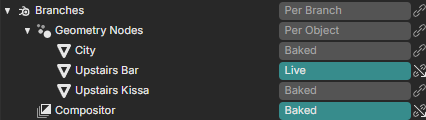
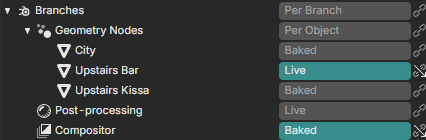
File > Export > JavaScript's Branches also turns curves, volumes and post-processing off and sets each modifier stack Live or Baked, whichever menu entry exports
Claude-Session: https://claude.ai/code/session_01PQ7TRPEHBjaE2nt66NvYBK

Changed region(s): [[0.6408, 0.025, 1.0, 1.0], [0.061, 0.175, 0.3662, 1.0], [0.0, 0.025, 0.2136, 0.125]]

diff --git a/src/io_scene_babylon/js-export.js b/src/io_scene_babylon/js-export.js
@@ -17,7 +17,7 @@ import { createSceneBin } from './scene-bin.js';
 import { imageFiles } from './image-files.js';
 import { exportCompositor } from './compositor-export.js';
 import { exportIR, idKey } from './ir-export.js';
-import { channels, readsOtherIDs } from './modifiers-export.js';
+import { channels, liveStack } from './modifiers-export.js';
 import { AREA_LIGHTS_LTC, AREA_SPECULAR, BABYLON_ASSETS, CHUNKS, COMPILER_FOLDER, gplFolders, NODE_KERNELS, UNITS_FILE } from './runtime-files.js';
 import { AREA_SPECULAR_UNIT, replaces, stripEntities, stripPieces, unitManifest } from './unit-manifest.js';
 import { CURVES_GLSL_FILE, curvesGlslFile } from './curves-export.js';
@@ -143,7 +143,6 @@ function nodeCode(entry, mesh, geometries, live, bin) {
 }
 
 // Remesh's Voxel mode needs OpenVDB, which the kernels module is built without: such a stack stays applied.
-const needsOpenVDB = (modifier) => modifier.kind === 'REMESH' && modifier.values.mode === 'VOXEL';
 
 // The thin instances of one instancer (main-view.js drawInstances) become its child's, in its space: they follow it when
 // it moves, as Blender's instances do. Instances of several instancers stay in world space.
@@ -213,6 +212,8 @@ function sharedCode(materials) {
 }
 
 const PIPELINE_EFFECTS = ['bloomEnabled', 'depthOfFieldEnabled', 'fxaaEnabled', 'sharpenEnabled', 'chromaticAberrationEnabled', 'grainEnabled', 'glowLayerEnabled'];
+// Bylonder's own pipeline of a rendered view with none of its effects on: it only displays (render-babylon.js).
+export const displayOnly = (pipeline) => pipeline._name?.startsWith('__display:') && !PIPELINE_EFFECTS.some((e) => pipeline[e]);
 // A rendered view's display transform (runtime/view-transform.js) as Main's view settings give it: its lattice of
 // Blender's display processor goes to scene.bin, but for Standard without a look, which is sRGB's encoding. Standard
 // too is a post process, as the app's: the world's clear color, which no material draws, is scene linear.
@@ -241,20 +242,21 @@ function greasePencilClock(world, ir, groups) {
     targetedAnimations: [{ animation: animation.serialize(), targetId: animated.outputs.geometry.draw }] });
 }
 
-// The package's files but the runtime's: scene.js, scene.d.ts, scene.ir.json, scene.bin and images/. With `live`, objects whose
-// modifiers are all Blender's keep them live (modifiers-export.js), run by modifiers.wasm in bylonder-modifiers/. With
-// `bakeAnimation`, what Babylon cannot play as its F-Curve is sampled per frame; `target`, the GPU engine its page makes
+// The package's files but the runtime's: scene.js, scene.d.ts, scene.ir.json, scene.bin and images/. With `live` (the
+// Modifiers branch's default state), objects whose modifiers are all Blender's keep them live (modifiers-export.js), run
+// by modifiers.wasm in bylonder-modifiers/. With `bakeAnimation`, what Babylon cannot play as its F-Curve is sampled per frame; `target`, the GPU engine its page makes
 // (export-options.js TARGETS); `runtime`, `runtimes`, the runtimes its features export with (runtimes.js chosenRuntime);
 // `replace`, the type keys of units the page registers itself, which the package ships none of (unit-manifest.js); `bundle`,
 // whether the package is then bundled (bundle.js); `branchState` and `branches`, the states of the scene's branches
 // (export-options.js chosenState).
 export async function exportModule(world, { live: keepLive = false, parity = false, hostCompression = false, bakeAnimation = false, target = 'BOTH', runtime = null, runtimes = {}, replace = [], bundle = false, controlPanel = true, devTools = 'CDN', navigation = 'FIXED', navigationModes = {}, branchState = null, branches = {} } = {}) {
-  const live = new Map(keepLive ? world.objects.map((node) => [node, world.modifiers.live(node)]).filter(([node, stack]) => stack && !stack.modifiers.some(needsOpenVDB) && !readsOtherIDs(world, node)) : []);
+  const states = { branchState, branches }, stackState = (node) => chosenState(states, 'modifiers', node.name) ?? (keepLive ? 'LIVE' : 'BAKED');
+  const live = new Map(world.objects.filter((node) => stackState(node) === 'LIVE').map((node) => [node, liveStack(world, node)]).filter(([, stack]) => stack));
   await world.modifiers.settled();
   // The mapped meshes' geometry is read below: their mapping holds until the module is written.
   const mapped = exportRuntimes(world, { bake: bakeAnimation, runtime, runtimes });
   try {
-    return await moduleSource(world, live, mapped, { parity, hostCompression, bakeAnimation, target, replace, bundle, controlPanel, devTools, navigation, navigationModes, states: { branchState, branches } });
+    return await moduleSource(world, live, mapped, { parity, hostCompression, bakeAnimation, target, replace, bundle, controlPanel, devTools, navigation, navigationModes, states });
   } finally {
     mapped.restore();
   }
@@ -263,10 +265,11 @@ export async function exportModule(world, { live: keepLive = false, parity = fal
 async function moduleSource(world, live, mapped, { parity, hostCompression, bakeAnimation, target, replace, bundle, controlPanel, devTools, navigation, navigationModes, states }) {
   const graphs = [], graphOf = materialGraphs(world, graphs);
   const data = await serializeScene(world, { geometry: false, live, mapped, parity, graphOf, bake: bakeAnimation });
+  if (chosenState(states, 'postProcessing') === 'OFF') Object.assign(data, { renderingPipelines: [], postProcesses: [] });
   const { scene } = world;
   const worldEntry = await worldMaterial(scene, parity, graphOf);
   if (worldEntry) data.materials.push(worldEntry);
-  const volumes = await exportVolumes(scene, { parity, graphOf, meshes: new Set(data.meshes.map((m) => m.id)), lights: new Set(data.lights.map((l) => l.id)) });
+  const volumes = chosenState(states, 'volumes') === 'OFF' ? null : await exportVolumes(scene, { parity, graphOf, meshes: new Set(data.meshes.map((m) => m.id)), lights: new Set(data.lights.map((l) => l.id)) });
   if (volumes) data.materials.push(...volumes.materials);
   const bin = createSceneBin({ gzip: !hostCompression }), images = imageFiles(data);
   const geometries = new Map(), geometryLines = [];
@@ -285,7 +288,7 @@ async function moduleSource(world, live, mapped, { parity, hostCompression, bake
   // Bylonder's own pipeline of a rendered view (render-babylon.js SceneLinearPipeline) turns the scene's image processing
   // off, so materials would encode to display themselves: with the view transform, which displays instead, it stays out
   // unless one of its effects is on.
-  if (display) data.renderingPipelines = data.renderingPipelines.filter((p) => !(p._name?.startsWith('__display:') && !PIPELINE_EFFECTS.some((e) => p[e])));
+  if (display) data.renderingPipelines = data.renderingPipelines.filter((p) => !displayOnly(p));
   // Baked, the compositor runs with its settings as exported: none of them a control.
   const controls = withUI([...exportControls(world, data), ...(compositorState === 'LIVE' ? composited?.knobs ?? [] : [])]);
   const ir = exportIR(world, { controls, live, bin, animationGroups: data.animationGroups, curves: data.liveCurves, constraints: data.liveConstraints, states });

diff --git a/src/io_scene_babylon/branches.js b/src/io_scene_babylon/branches.js
@@ -1,11 +1,15 @@
 // The branches of a scene File > Export > JavaScript offers (export-options.js BRANCHES): each self-contained part of
 // it a package can run in its page, freeze to its evaluated result, or leave out, with what each defaults to.
 import { idStruct } from '../python/bpy_rna.js';
-import { geometryNodesDefault, geometryNodesStack } from './modifiers-export.js';
+import { geometryNodesDefault, geometryNodesStack, liveStack } from './modifiers-export.js';
 import { treeReadsFrame } from './ir-export.js';
+import { cameraEffects } from './babylon-export.js';
+import { displayOnly } from './js-export.js';
+import { hasVolumes } from './volumes-export.js';
 
 // [id, label, icon] of each branch, in the order the export's tree lists them.
-export const BRANCH_ROWS = [['geometryNodes', 'Geometry Nodes', 'GEOMETRY_NODES'], ['compositor', 'Compositor', 'NODE_COMPOSITING']];
+export const BRANCH_ROWS = [['modifiers', 'Modifiers', 'MODIFIER'], ['geometryNodes', 'Geometry Nodes', 'GEOMETRY_NODES'], ['curves', 'Curves', 'CURVES_DATA'],
+  ['volumes', 'Volumes', 'VOLUME_DATA'], ['postProcessing', 'Post-processing', 'SHADING_RENDERED'], ['compositor', 'Compositor', 'NODE_COMPOSITING']];
 
 // The scene's Geometry Nodes stacks, by object: { name, state } with the state each exports with by default.
 function geometryNodesInstances(world) {
@@ -19,13 +23,30 @@ function composites(world) {
   return !!(world.scene.cameras.length && sync?.compositingTree() && idStruct(sync.blender.scene).render.use_compositing);
 }
 
+// Whether a render draws curves the page would draw (curves-export.js).
+const drawsCurves = (world) => world.mainSync.blender.curves().some((r) => r.render && r.indirection.length);
+
+// Whether the scene's camera has effects the package carries: rendering pipelines or post-processes (babylon-export.js).
+function postProcessed(world) {
+  const camera = world.scene.activeCamera;
+  if (!camera) return false;
+  const { renderingPipelines, postProcesses } = cameraEffects(world, world.scene, camera);
+  return postProcesses.length > 0 || renderingPipelines.some((p) => !displayOnly(p));
+}
+
 // The branches the scene has, by id: { state, instances } with their default states; a branch without instances has
-// one state for the scene.
-export function sceneBranches(world) {
+// one state for the scene. `live`: whether modifier stacks are Live by default (File > Export > JavaScript, Live
+// Modifiers).
+export function sceneBranches(world, { live = false } = {}) {
   if (!world.mainSync) return {};
+  const stacks = world.objects.filter((node) => liveStack(world, node)).map((node) => ({ name: node.name, state: live ? 'LIVE' : 'BAKED' }));
   const gn = geometryNodesInstances(world);
   return {
+    ...(stacks.length && { modifiers: { instances: stacks } }),
     ...(gn.length && { geometryNodes: { instances: gn } }),
+    ...(drawsCurves(world) && { curves: { state: 'LIVE' } }),
+    ...(hasVolumes(world.scene) && { volumes: { state: 'LIVE' } }),
+    ...(postProcessed(world) && { postProcessing: { state: 'LIVE' } }),
     ...(composites(world) && { compositor: { state: 'LIVE' } }),
   };
 }

diff --git a/src/io_scene_babylon/volumes-export.js b/src/io_scene_babylon/volumes-export.js
@@ -16,6 +16,16 @@ const LIGHT_FIELDS = ['type', 'energy', 'exposure', 'color', 'volume_factor', 's
   'use_custom_distance', 'cutoff_distance', 'diffuse_factor', 'specular_factor', 'use_shadow'];
 const plain = (value) => (value && typeof value === 'object' ? [...value] : value);
 
+// The scene's volume domains seen by `camera`, of the `meshes` exported (ids; all when unset): [mesh, material], the
+// world's as [null, world]. The world's box is shown only in rendered views: the world's volume is its material's.
+function volumeDomains(scene, camera, meshes) {
+  const world = worldNodes.get(scene);
+  return scene.meshes.filter((mesh) => isVolumeDomain(mesh, camera) && !mesh.material.blenderWorld && (!meshes || meshes.has(mesh.id)))
+    .map((mesh) => [mesh, mesh.material]).concat(world?.blenderVolume ? [[null, world]] : []);
+}
+/** Whether a package of the scene has volumes to draw. */
+export const hasVolumes = (scene) => !!scene.activeCamera && volumes.enabled(scene) && volumeDomains(scene, scene.activeCamera).length > 0;
+
 // The volumes of the scene as its camera draws them: { config, materials } (the volume materials' serializations, and
 // `dispose` once the export no longer reads them), or null when it draws none. `meshes`: the exported meshes' ids;
 // `lights`: the exported lights' ids; `graphOf(material, volume)`: the IR graph of a material's tree (js-export.js
@@ -23,9 +33,7 @@ const plain = (value) => (value && typeof value === 'object' ? [...value] : valu
 export async function exportVolumes(scene, { parity, graphOf, meshes, lights }) {
   const camera = scene.activeCamera;
   if (!camera || !volumes.enabled(scene)) return null;
-  // The world's box is shown only in rendered views: the world's volume is its material's.
-  const world = worldNodes.get(scene), domains = scene.meshes.filter((mesh) => isVolumeDomain(mesh, camera) && !mesh.material.blenderWorld && meshes.has(mesh.id))
-    .map((mesh) => [mesh, mesh.material]).concat(world?.blenderVolume ? [[null, world]] : []);
+  const domains = volumeDomains(scene, camera, meshes);
   if (!domains.length) return null;
   const made = [], config = { settings: volumeSettings(scene), domains: [], lights: {} };
   for (const [domain, source] of domains) {

diff --git a/src/io_scene_babylon/export-dialog.js b/src/io_scene_babylon/export-dialog.js
@@ -78,10 +78,13 @@ function unitsTree(values) {
 }
 
 // Why an instance defaults to its state, by branch.
-const DEFAULT_REASONS = { geometryNodes: { LIVE: 'an input or the frame drives it in the page', BAKED: 'nothing in the page drives it, or it is Smooth by Angle' } };
+const DEFAULT_REASONS = {
+  modifiers: { LIVE: 'Live Modifiers runs every stack it can in the page', BAKED: 'JavaScript (.zip) bakes modifier stacks; Live Modifiers runs them' },
+  geometryNodes: { LIVE: 'an input or the frame drives it in the page', BAKED: 'nothing in the page drives it, or it is Smooth by Angle' },
+};
 const stateLabel = (state) => BRANCH_STATES.find(([id]) => id === state)[1];
 // The Branches tree: each branch of the scene (`scene`, branches.js sceneBranches) Live, Baked or Off as it offers, and
-// under a branch with instances (a Geometry Nodes stack) each instance; unset everywhere, each takes its default. None:
+// under a branch with instances (an object's stack) each instance; unset everywhere, each takes its default. None:
 // no row.
 function branchesTree(values, scene) {
   values.branches = {};
@@ -146,7 +149,7 @@ export async function exportDialog(world, format, title) {
   const values = reactive({ eeveeParity: false, hostCompression: false, bakeAnimation: false, target: null, bundle: null, minify: null, controlPanel: null, devTools: null, navigation: null });
   const fields = [{ name: 'eeveeParity', label: 'EEVEE Parity', note: PARITY_NOTE },
     ...(js ? [{ name: 'hostCompression', label: 'Host Compresses Geometry', note: HOST_NOTE }, { name: 'bakeAnimation', label: 'Bake Animation', note: BAKE_NOTE }] : [])];
-  const branches = js ? sceneBranches(world) : {};
+  const branches = js ? sceneBranches(world, { live: format === 'js-live' }) : {};
   const tree = settingsTree(values, js, branches);
   const note = branches.geometryNodes ? await geometryNodesNote() : undefined;
   const host = document.body.appendChild(document.createElement('div'));

diff --git a/tests/export-live-bevel-wasm.test.js b/tests/export-live-bevel-wasm.test.js
@@ -1,11 +1,13 @@
 // Live Modifiers: a Bevel's width set in the page bevels as the app does (Newton's Cradle's base). Its `width_pct` is
-// the same DNA field in percent, not a control of its own that writes the old width back.
+// the same DNA field in percent, not a control of its own that writes the old width back. File > Export's Branches sets
+// a stack Live or Baked whichever menu entry exported it.
 import assert from 'node:assert/strict';
 import { NullEngine } from '@babylonjs/core';
 import { openExample } from './open-example.js';
 import { writePackage } from './export-package.js';
 import { exportModule } from '../src/io_scene_babylon/js-export.js';
 import { blendData } from '../src/python/bpy_rna.js';
+import { sceneBranches } from '../src/io_scene_babylon/branches.js';
 
 const { world, sync } = openExample('newtons-cradle');
 sync.view();
@@ -25,5 +27,9 @@ const off = Math.max(...page.map((v, i) => Math.abs(v - app[i])));
 assert.ok(off < 1e-4, `positions off by ${off}`);
 blend.dispose();
 written.remove();
+const runs = (files) => Object.values(JSON.parse(files['scene.ir.json']).entities).some((e) => e.id === 'OB:Base' && e.implementation === 'modifiers');
+assert.deepEqual(sceneBranches(world, { live: true }).modifiers.instances.find((i) => i.name === 'Base'), { name: 'Base', state: 'LIVE' }, 'Branches lists the stack, Live');
+assert.ok(!runs(await exportModule(world, { live: true, branches: { modifiers: { state: 'BAKED', instances: {} } } })), 'Baked, the stack is applied');
+assert.ok(runs(await exportModule(world, { branches: { modifiers: { state: null, instances: { Base: 'LIVE' } } } })), 'Live, it runs without Live Modifiers');
 console.log("Live modifiers: a Bevel's width set in the page bevels as in the app");
 process.exit(0);

diff --git a/tests/export-curves-wasm.test.js b/tests/export-curves-wasm.test.js
@@ -1,11 +1,13 @@
 // Curves in the JavaScript export: each set of curves a render draws (here a Curves object's, Hair Dynamics' Tentacles)
 // is an IR entity holding Main's curves draw in scene.bin, and the page draws it as the app does: the same buffers and
-// Hair shape on a mesh of Blender's batch vertices, in the exported material with the app's curves blocks.
+// Hair shape on a mesh of Blender's batch vertices, in the exported material with the app's curves blocks. Curves Off in
+// File > Export's Branches leaves them out.
 import assert from 'node:assert/strict';
 import { NullEngine } from '@babylonjs/core';
 import { exportModule } from '../src/io_scene_babylon/js-export.js';
 import { openExample } from './open-example.js';
 import { writePackage } from './export-package.js';
+import { sceneBranches } from '../src/io_scene_babylon/branches.js';
 
 const { world, sync } = openExample('hair-dynamics');
 sync.view();
@@ -34,5 +36,8 @@ assert.equal(data.segments, app.indirection.length, "Blender's drawn segments");
 assert.deepEqual(data.pos_rad.getInternalTexture()._bufferView.subarray(0, app.posRad.length), app.posRad, "Main's points");
 blend.dispose();
 written.remove();
+assert.ok(sceneBranches(world).curves, 'Branches lists the curves');
+const off = await exportModule(world, { live: true, branches: { curves: { state: 'OFF', instances: {} } } });
+assert.ok(!Object.values(JSON.parse(off['scene.ir.json']).entities).some((e) => e.type === 'curves:CURVES') && !off['bylonder-curves/glsl.js'], 'Off ships no curves');
 console.log(`Export curves: ${record.length.length} curves of ${app.posRad.length / 4} points drawn with the app's curves blocks`);
 process.exit(0);

diff --git a/src/io_scene_babylon/ir-export.js b/src/io_scene_babylon/ir-export.js
@@ -8,6 +8,7 @@ import { baseMesh, geometryNodesEntities, modifierEntities } from './modifiers-e
 import { ID_OB } from '../blenkernel/main-evaluated.js';
 import { greasePencilEntities } from './grease-pencil-export.js';
 import { curvesEntities } from './curves-export.js';
+import { chosenState } from './export-options.js';
 import { entityOrder, IR_SCHEMA, IR_VERSION, referencesIn } from './runtime/ir.js';
 
 // Blender's two-letter ID codes, by the bpy.data collection of each ID type.
@@ -281,7 +282,7 @@ export function exportIR(world, { controls, live, bin, animationGroups = [], cur
     for (const entity of Object.values(entities)) if (time && entity.type === 'modifier:NODES' && readsTime(graphs, entity.inputs.graph.graph)) entity.inputs.frame = { property: time };
     Object.assign(entities, driverEntities(properties), animationEntities(ids, properties, time, animationGroups, curves, bin),
       greasePencilEntities(world, objects.map(([node]) => node), bin, time),
-      curvesEntities(world, objects.map(([node]) => node), bin), constraintEntities(ids, constraints, time));
+      chosenState(states, 'curves') === 'OFF' ? {} : curvesEntities(world, objects.map(([node]) => node), bin), constraintEntities(ids, constraints, time));
   }
   // What the page computes from is offered to authors.
   for (const entity of Object.values(entities)) if (entity.implementation) for (const [ref] of referencesIn(entity.inputs)) if ('property' in ref) properties[ref.property].suggested = true;

diff --git a/tests/export-volumes-wasm.test.js b/tests/export-volumes-wasm.test.js
@@ -1,12 +1,13 @@
 // EEVEE's volumes in exported pages as in the app: the Volumes example's dust (an object's Volume) and Hair Dynamics'
 // water (the world's Volume Scatter) ship as volume materials built from the IR's graphs, drawn by the app's volume
-// passes in bylonder-volumes/ (GPL, beside its notice).
+// passes in bylonder-volumes/ (GPL, beside its notice). Volumes Off in File > Export's Branches leaves them out.
 import assert from 'node:assert/strict';
 import { execFileSync } from 'node:child_process';
 import { fileURLToPath } from 'node:url';
 import { NullEngine } from '@babylonjs/core';
 import { openExample } from './open-example.js';
 import { writePackage } from './export-package.js';
+import { sceneBranches } from '../src/io_scene_babylon/branches.js';
 import { exportModule } from '../src/io_scene_babylon/js-export.js';
 import { gplFiles } from '../src/io_scene_babylon/runtime-files.js';
 import { current } from '../scripts/modifiers-polyfill.mjs';
@@ -40,5 +41,8 @@ if (!example) {
   blend.scene.render();
   blend.dispose();
   written.remove();
+  assert.ok(sceneBranches(world).volumes, `${example}: Branches lists its volumes`);
+  const off = await exportModule(world, { branches: { volumes: { state: 'OFF', instances: {} } } });
+  assert.ok(!off['scene.js'].includes('const VOLUMES =') && !gplFiles(off).some(([path]) => path.startsWith('bylonder-volumes/')), `${example}: Off ships no volumes`);
 }
 process.exit(0);

diff --git a/tests/export-god-rays-wasm.test.js b/tests/export-god-rays-wasm.test.js
@@ -1,6 +1,7 @@
 // God rays in an exported page stream from their source as in the app (Dusk Coast's sun): Babylon parses them as a
 // plain post process, without their samples or the pass that draws their mesh, whose shader does not compile; the
-// page builds them as their class, with the settings and samples the app's have.
+// page builds them as their class, with the settings and samples the app's have. Post-processing Off in File > Export's
+// Branches leaves them out.
 import assert from 'node:assert/strict';
 import { NullEngine, Scene, FreeCamera, MeshBuilder, Vector3, VolumetricLightScatteringPostProcess } from '@babylonjs/core';
 import { createAnimationModel } from '../src/blenkernel/animation/model.js';
@@ -34,5 +35,7 @@ assert.deepEqual([page.decay, page.exposure], [rays.decay, rays.exposure], 'with
 assert.match(page.getEffect()?.defines ?? '', /NUM_SAMPLES 60/, 'and samples');
 blend.dispose();
 written.remove();
+const off = await exportModule(world, { branches: { postProcessing: { state: 'OFF', instances: {} } } });
+assert.match(off['scene.js'], /const POST_PROCESSES = \[\];/, 'Off ships no post-processes');
 console.log('Export: god rays stream from their source in the page as in the app');
 process.exit(0);

diff --git a/src/io_scene_babylon/modifiers-export.js b/src/io_scene_babylon/modifiers-export.js
@@ -20,6 +20,14 @@ export const readsOtherIDs = (world, node) => [...idStruct(world.mainSync.object
     return pointer && pointer[1] === pointer[2];
   }));
 
+const needsOpenVDB = (modifier) => modifier.kind === 'REMESH' && modifier.values.mode === 'VOXEL';
+// An object's stack as a package can keep it live (world.modifiers.live), or null: one whose modifiers are all Blender's,
+// none needing OpenVDB, which modifiers.wasm lacks, and none reading another ID.
+export function liveStack(world, node) {
+  const stack = world.modifiers.live(node);
+  return stack && !stack.modifiers.some(needsOpenVDB) && !readsOtherIDs(world, node) ? stack : null;
+}
+
 // The channel an animated setting of the stack's `index`th modifier lands in (blend-scene.js Binding.channel).
 export const channelKey = (index, path) => `${index}:${path}`;
 

diff --git a/src/io_scene_babylon/export-options.js b/src/io_scene_babylon/export-options.js
@@ -50,7 +50,8 @@ export const BRANCH_STATES = [
   ['OFF', 'Off', 'Left out of the package'],
 ];
 // The states each branch offers, by branch id.
-export const BRANCHES = { geometryNodes: ['LIVE', 'BAKED'], compositor: ['LIVE', 'BAKED', 'OFF'] };
+export const BRANCHES = { modifiers: ['LIVE', 'BAKED'], geometryNodes: ['LIVE', 'BAKED'], curves: ['LIVE', 'OFF'], volumes: ['LIVE', 'OFF'],
+  postProcessing: ['LIVE', 'OFF'], compositor: ['LIVE', 'BAKED', 'OFF'] };
 const branchState = (name) => repaired(name, z.nullable(z.enum(BRANCH_STATES.map(([id]) => id))), null);
 const Branch = z.object({
   /** for every instance of the branch */

diff --git a/src/io_scene_babylon/babylon-export.js b/src/io_scene_babylon/babylon-export.js
@@ -78,7 +78,7 @@ function uniqueIds(nodes) {
 
 // Rendering pipelines and post-processes on the scene camera, in Babylon's own serialization, with the render effects
 // Bylonder attaches to rendered cameras (render-babylon.js).
-function cameraEffects(world, scene, camera) {
+export function cameraEffects(world, scene, camera) {
   const rendered = world.renderSettings.renderedCameras;
   world.renderSettings.setRenderedCameras([...rendered, camera]);
   try {
